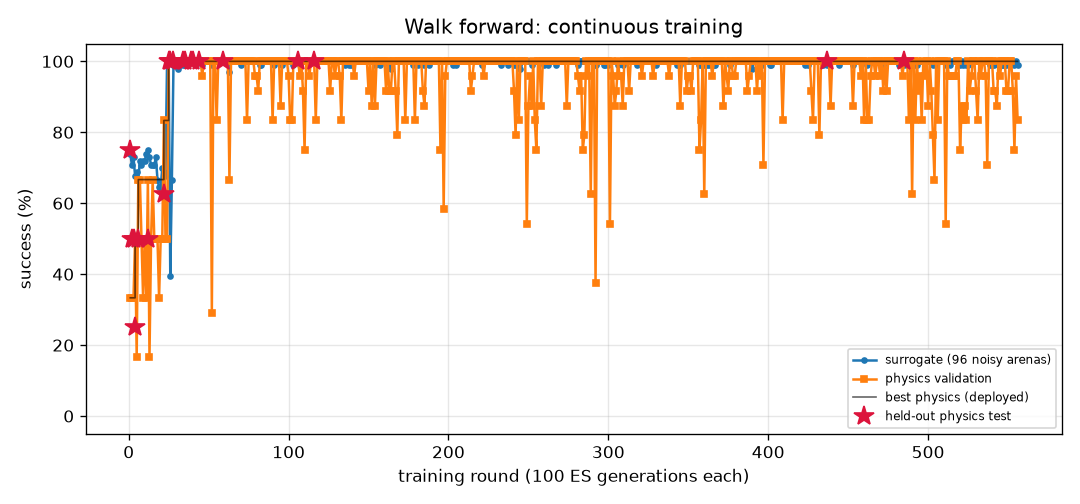
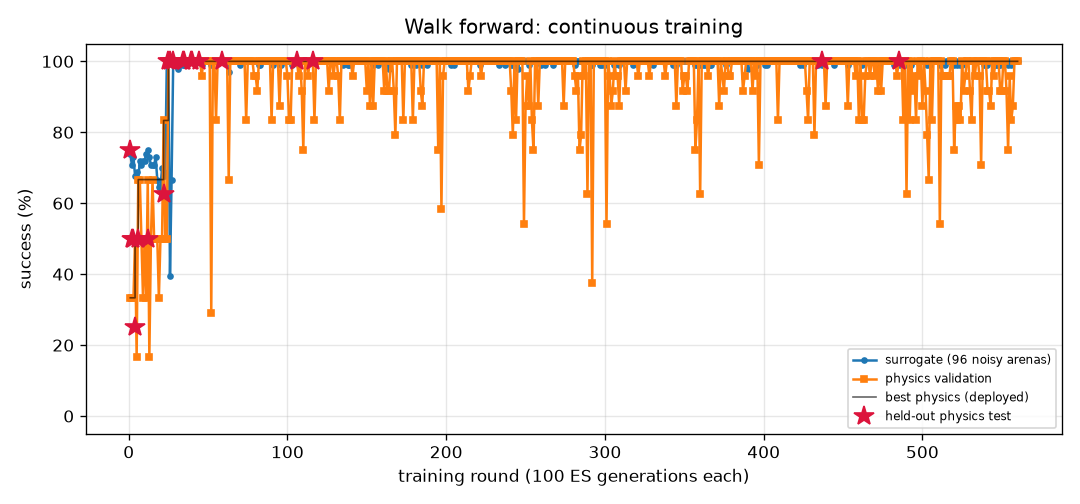
FlyLab: continuous training progress
- walk_forward: optimal, physics val 100% of 24, round 560
- turn: optimal, physics val 100% of 24, round 1392
- goto: optimal, physics val 100% of 24, round 429
- odor_seek: optimal, physics val 100% of 24, round 348
- odor_avoid: optimal, physics val 100% of 24, round 1165
- light_seek: optimal, physics val 100% of 24, round 632
- light_avoid: optimal, physics val 100% of 24, round 877

diff --git a/projects/09_flylab/training/walk_forward/REPORT.md b/projects/09_flylab/training/walk_forward/REPORT.md
@@ -1,14 +1,14 @@
 # Walk forward (`walk_forward`) — training report
 
-*Auto-generated by `train_brains.py`, last updated 2026-11-26T16:41:09.*
+*Auto-generated by `train_brains.py`, last updated 2026-11-26T20:40:53.*
 
 ![curve](curve.png)
 
 | | |
 |---|---|
-| rounds | 556 |
-| ES generations | 55600 |
-| physics runs | 13422 |
+| rounds | 560 |
+| ES generations | 56000 |
+| physics runs | 13518 |
 | status | **optimal** |
 | best brain | round 485: physics validation **100%** on 24 arenas, surrogate 100% |
 | held-out physics test | **100%** on 32 unseen arenas (95% CI 89%-100%) (errors: [0.14, 0.13, 0.15, 0.21, 0.14, 0.12, 0.13, 0.18, 0.2, 0.15, 0.13, 0.14, 0.2, 0.15, 0.12, 0.12, 0.14, 0.14, 0.13, 0.13, 0.14, 0.21, 0.14, 0.13, 0.14, 0.14, 0.18, 0.14, 0.14, 0.14, 0.17, 0.15]) |
@@ -17,10 +17,6 @@ Physics error per arena: mm from target at the end (< 1.5 and standing still = s
 
 | round | level | gens | sigma | surrogate | physics val | val errors | test | note |
 |---:|---:|---:|---:|---:|---:|---|---:|---|
-| 517 | 3 | 51700 | 0.024 | 100% | 96% | [0.25, 0.27, 0.11, 0.25, 0.27, 0.03, 0.28, 0.11, 0.27, 0.19, 0.23, 0.11, 0.11, 0.07, 0.26, 0.14, 0.23, 0.27, 0.18, 0.27, 0.21, 0.18, 0.15, 0.1] |  | restart from best |
-| 518 | 3 | 51800 | 0.024 | 100% | 100% | [0.22, 0.25, 0.17, 0.22, 0.25, 0.16, 0.25, 0.18, 0.25, 0.25, 0.16, 0.22, 0.18, 0.15, 0.24, 0.23, 0.22, 0.26, 0.18, 0.24, 0.2, 0.23, 0.22, 0.18] |  |  |
-| 519 | 3 | 51900 | 0.024 | 100% | 100% | [0.36, 0.34, 0.36, 0.36, 0.34, 0.35, 0.34, 0.35, 0.34, 0.33, 0.35, 0.31, 0.35, 0.35, 0.35, 0.32, 0.36, 0.34, 0.35, 0.35, 0.35, 0.33, 0.31, 0.36] |  |  |
-| 520 | 3 | 52000 | 0.024 | 99% | 75% | [0.1, 0.21, 0.11, 0.1, 0.02, 0.11, 0.04, 0.1, 0.08, 0.06, 0.12, 0.08, 0.83, 0.11, 0.11, 0.08, 0.1, 0.07, 1.09, 0.06, 0.08, 0.09, 0.15, 0.43] |  |  |
 | 521 | 3 | 52100 | 0.025 | 100% | 88% | [0.08, 0.25, 0.5, 0.06, 0.25, 0.02, 0.24, 0.04, 0.25, 0.25, 0.04, 0.11, 0.11, 0.03, 0.2, 0.17, 0.1, 0.24, 0.04, 0.22, 0.08, 0.25, 0.1, 0.34] |  | restart from best |
 | 522 | 3 | 52200 | 0.024 | 99% | 83% | [0.3, 0.37, 0.02, 0.3, 0.37, 0.07, 0.38, 0.24, 0.38, 0.04, 0.15, 0.08, 0.18, 0.03, 0.34, 0.08, 0.06, 0.37, 0.26, 0.37, 0.19, 0.08, 0.08, 0.04] |  |  |
 | 523 | 3 | 52300 | 0.025 | 100% | 88% | [0.09, 0.26, 0.1, 0.06, 0.27, 0.37, 0.27, 0.09, 0.27, 0.25, 0.09, 0.09, 0.1, 0.93, 0.03, 0.09, 0.06, 0.25, 0.1, 0.22, 0.11, 0.23, 0.1, 0.1] |  |  |
@@ -57,3 +53,7 @@ Physics error per arena: mm from target at the end (< 1.5 and standing still = s
 | 554 | 3 | 55400 | 0.024 | 99% | 75% | [0.07, 0.07, 0.19, 0.33, 0.05, 0.16, 0.07, 0.23, 0.09, 0.09, 0.23, 0.08, 0.08, 0.42, 0.28, 0.09, 0.37, 0.06, 0.09, 0.41, 0.07, 0.1, 0.13, 0.03] |  |  |
 | 555 | 3 | 55500 | 0.025 | 100% | 96% | [0.2, 0.25, 0.1, 0.19, 0.25, 0.14, 0.25, 0.18, 0.25, 0.26, 0.06, 0.25, 0.18, 0.09, 0.21, 0.25, 0.2, 0.24, 0.07, 0.22, 0.06, 0.25, 0.24, 0.18] |  |  |
 | 556 | 3 | 55600 | 0.024 | 99% | 83% | [0.05, 0.08, 0.3, 0.06, 0.07, 0.05, 0.1, 0.23, 0.08, 0.1, 0.33, 0.16, 0.39, 0.07, 0.05, 0.23, 0.1, 0.09, 0.06, 0.07, 0.64, 0.14, 0.22, 0.04] |  |  |
+| 557 | 3 | 55700 | 0.025 | 100% | 88% | [0.08, 0.22, 0.07, 0.08, 0.21, 0.08, 0.22, 0.08, 0.21, 0.24, 0.21, 0.25, 0.08, 0.08, 0.17, 0.24, 0.07, 0.2, 0.13, 0.1, 0.1, 0.24, 0.24, 0.18] |  | restart from best |
+| 558 | 3 | 55800 | 0.024 | 100% | 100% | [0.07, 0.09, 0.18, 0.08, 0.08, 0.18, 0.14, 0.18, 0.05, 0.19, 0.19, 0.22, 0.18, 0.19, 0.06, 0.22, 0.08, 0.07, 0.05, 0.05, 0.16, 0.19, 0.24, 0.18] |  |  |
+| 559 | 3 | 55900 | 0.024 | 100% | 100% | [0.25, 0.33, 0.25, 0.26, 0.32, 0.26, 0.33, 0.24, 0.33, 0.35, 0.27, 0.35, 0.25, 0.26, 0.27, 0.35, 0.24, 0.3, 0.24, 0.27, 0.24, 0.36, 0.35, 0.25] |  |  |
+| 560 | 3 | 56000 | 0.024 | 100% | 100% | [0.27, 0.28, 0.21, 0.27, 0.28, 0.2, 0.27, 0.23, 0.27, 0.27, 0.04, 0.26, 0.23, 0.2, 0.27, 0.26, 0.25, 0.29, 0.23, 0.28, 0.25, 0.27, 0.25, 0.23] |  |  |

diff --git a/projects/09_flylab/training/odor_seek/REPORT.md b/projects/09_flylab/training/odor_seek/REPORT.md
@@ -1,14 +1,14 @@
 # Find food by smell (`odor_seek`) — training report
 
-*Auto-generated by `train_brains.py`, last updated 2026-11-26T17:36:54.*
+*Auto-generated by `train_brains.py`, last updated 2026-11-26T20:40:45.*
 
 ![curve](curve.png)
 
 | | |
 |---|---|
-| rounds | 346 |
-| ES generations | 34600 |
-| physics runs | 7798 |
+| rounds | 348 |
+| ES generations | 34800 |
+| physics runs | 7846 |
 | status | **optimal** |
 | best brain | round 240: physics validation **100%** on 24 arenas, surrogate 100% |
 | held-out physics test | **100%** on 32 unseen arenas (95% CI 89%-100%) (errors: [0.02, 0.03, 0.03, 0.05, 0.04, 0.05, 0.06, 0.07, 0.09, 0.05, 0.05, 0.01, 0.12, 0.03, 0.07, 0.08, 0.02, 0.06, 0.03, 0.04, 0.0, 0.01, 0.09, 0.05, 0.04, 0.01, 0.07, 0.05, 0.08, 0.05, 0.05, 0.02]) |
@@ -17,8 +17,6 @@ Physics error per arena: mm from target at the end (< 1.5 and standing still = s
 
 | round | level | gens | sigma | surrogate | physics val | val errors | test | note |
 |---:|---:|---:|---:|---:|---:|---|---:|---|
-| 307 | 3 | 30700 | 0.024 | 100% | 100% | [0.07, 0.2, 0.13, 0.09, 0.05, 0.11, 0.13, 0.07, 0.16, 0.22, 0.05, 0.07, 0.17, 0.05, 0.11, 0.04, 0.17, 0.16, 0.21, 0.06, 0.08, 0.17, 0.05, 0.11] |  |  |
-| 308 | 3 | 30800 | 0.024 | 100% | 100% | [0.07, 0.18, 0.1, 0.14, 0.11, 0.1, 0.1, 0.12, 0.15, 0.14, 0.13, 0.09, 0.21, 0.09, 0.15, 0.08, 0.13, 0.12, 0.12, 0.26, 0.14, 0.15, 0.1, 0.1] |  | restart from best |
 | 309 | 3 | 30900 | 0.024 | 100% | 100% | [0.05, 0.08, 0.03, 0.02, 0.06, 0.04, 0.05, 0.1, 0.08, 0.06, 0.11, 0.19, 0.06, 0.01, 0.04, 0.06, 0.13, 0.12, 0.08, 0.07, 0.02, 0.1, 0.09, 0.04] |  |  |
 | 310 | 3 | 31000 | 0.024 | 100% | 100% | [0.08, 0.12, 0.18, 0.14, 0.16, 0.18, 0.18, 0.14, 0.11, 0.11, 0.17, 0.2, 0.12, 0.12, 0.06, 0.16, 0.09, 0.14, 0.13, 0.11, 0.13, 0.05, 0.14, 0.11] |  |  |
 | 311 | 3 | 31100 | 0.024 | 100% | 100% | [0.17, 0.24, 0.18, 0.13, 0.13, 0.16, 0.17, 0.17, 0.2, 0.14, 0.15, 0.15, 0.16, 0.18, 0.17, 0.1, 0.09, 0.14, 0.16, 0.1, 0.09, 0.12, 0.05, 0.12] |  |  |
@@ -57,3 +55,5 @@ Physics error per arena: mm from target at the end (< 1.5 and standing still = s
 | 344 | 3 | 34400 | 0.024 | 100% | 100% | [0.17, 0.18, 0.19, 0.17, 0.19, 0.17, 0.12, 0.19, 0.19, 0.13, 0.18, 0.19, 0.19, 0.19, 0.12, 0.18, 0.17, 0.21, 0.14, 0.23, 0.2, 0.2, 0.16, 0.14] |  | restart from best |
 | 345 | 3 | 34500 | 0.024 | 100% | 100% | [0.26, 0.16, 0.18, 0.19, 0.18, 0.21, 0.16, 0.22, 0.17, 0.18, 0.15, 0.25, 0.23, 0.19, 0.18, 0.22, 0.27, 0.24, 0.21, 0.2, 0.17, 0.11, 0.15, 0.28] |  |  |
 | 346 | 3 | 34600 | 0.024 | 100% | 100% | [0.13, 0.14, 0.11, 0.2, 0.17, 0.14, 0.2, 0.09, 0.13, 0.11, 0.27, 0.11, 0.18, 0.21, 0.21, 0.17, 0.21, 0.22, 0.18, 0.13, 0.16, 0.2, 0.13, 0.16] |  |  |
+| 347 | 3 | 34700 | 0.024 | 100% | 100% | [0.25, 0.19, 0.19, 0.16, 0.24, 0.24, 0.18, 0.16, 0.2, 0.21, 0.21, 0.15, 0.19, 0.16, 0.19, 0.14, 0.13, 0.18, 0.15, 0.19, 0.25, 0.17, 0.15, 0.17] |  |  |
+| 348 | 3 | 34800 | 0.024 | 100% | 100% | [0.22, 0.17, 0.19, 0.16, 0.23, 0.24, 0.23, 0.22, 0.13, 0.17, 0.2, 0.17, 0.11, 0.15, 0.19, 0.16, 0.21, 0.2, 0.27, 0.22, 0.2, 0.33, 0.12, 0.14] |  | restart from best |

diff --git a/projects/09_flylab/training/light_seek/REPORT.md b/projects/09_flylab/training/light_seek/REPORT.md
@@ -1,14 +1,14 @@
 # Walk toward light (`light_seek`) — training report
 
-*Auto-generated by `train_brains.py`, last updated 2026-11-26T19:38:09.*
+*Auto-generated by `train_brains.py`, last updated 2026-11-26T19:57:26.*
 
 ![curve](curve.png)
 
 | | |
 |---|---|
-| rounds | 631 |
-| ES generations | 63100 |
-| physics runs | 12024 |
+| rounds | 632 |
+| ES generations | 63200 |
+| physics runs | 12048 |
 | status | **optimal** |
 | best brain | round 375: physics validation **100%** on 24 arenas, surrogate 100% |
 | held-out physics test | **100%** on 32 unseen arenas (95% CI 89%-100%) (errors: [0.57, 0.54, 0.53, 0.57, 0.55, 0.56, 0.59, 0.56, 0.53, 0.56, 0.71, 0.56, 0.55, 0.54, 0.53, 0.54, 0.54, 0.55, 0.52, 0.65, 0.64, 0.7, 0.58, 0.57, 0.6, 0.62, 0.55, 0.88, 0.54, 0.52, 0.62, 0.57]) |
@@ -17,7 +17,6 @@ Physics error per arena: mm from target at the end (< 1.5 and standing still = s
 
 | round | level | gens | sigma | surrogate | physics val | val errors | test | note |
 |---:|---:|---:|---:|---:|---:|---|---:|---|
-| 592 | 3 | 59200 | 0.024 | 100% | 100% | [0.53, 0.51, 0.57, 0.52, 0.56, 0.58, 0.54, 0.53, 0.56, 0.59, 0.6, 0.54, 0.63, 0.51, 0.52, 0.51, 0.51, 0.61, 0.5, 0.6, 0.54, 0.57, 0.55, 0.56] |  |  |
 | 593 | 3 | 59300 | 0.024 | 100% | 100% | [0.58, 0.62, 0.69, 0.57, 0.57, 0.51, 0.52, 0.58, 0.6, 0.71, 0.63, 0.52, 0.61, 0.56, 0.6, 0.57, 0.54, 0.54, 0.55, 0.65, 0.56, 0.59, 0.52, 0.56] |  |  |
 | 594 | 3 | 59400 | 0.024 | 100% | 100% | [0.56, 0.5, 0.51, 0.6, 0.52, 0.59, 0.68, 0.74, 0.51, 0.63, 0.52, 0.57, 0.77, 0.53, 0.96, 0.7, 0.53, 0.51, 0.53, 0.52, 0.71, 0.62, 0.51, 0.68] |  |  |
 | 595 | 3 | 59500 | 0.024 | 100% | 100% | [0.45, 0.45, 0.46, 0.49, 0.46, 0.88, 0.5, 0.59, 0.65, 0.45, 0.46, 0.46, 0.45, 0.45, 0.93, 0.45, 0.49, 0.57, 0.48, 0.49, 0.47, 0.46, 0.46, 0.59] |  | restart from best |
@@ -57,3 +56,4 @@ Physics error per arena: mm from target at the end (< 1.5 and standing still = s
 | 629 | 3 | 62900 | 0.024 | 100% | 100% | [0.48, 0.52, 0.59, 0.58, 0.54, 0.94, 0.63, 0.89, 0.92, 0.5, 0.66, 0.53, 0.58, 0.54, 0.92, 0.63, 0.56, 0.5, 0.5, 0.97, 0.95, 0.64, 0.65, 0.67] |  |  |
 | 630 | 3 | 63000 | 0.024 | 100% | 100% | [0.58, 0.58, 0.6, 0.52, 0.5, 0.55, 0.56, 0.52, 1.06, 0.54, 0.49, 0.56, 0.55, 0.55, 0.49, 0.48, 0.57, 0.66, 0.59, 0.55, 0.56, 0.64, 0.54, 0.98] |  |  |
 | 631 | 3 | 63100 | 0.024 | 100% | 100% | [0.6, 0.56, 0.51, 0.44, 0.58, 0.52, 0.51, 0.44, 0.5, 0.49, 0.45, 0.54, 0.5, 0.59, 0.61, 0.45, 0.55, 0.61, 0.55, 0.62, 0.52, 0.41, 0.52, 0.63] |  | restart from best |
+| 632 | 3 | 63200 | 0.024 | 100% | 100% | [0.55, 0.45, 0.46, 0.44, 0.47, 0.56, 0.47, 0.55, 0.44, 0.49, 0.54, 0.47, 0.5, 0.51, 0.45, 0.46, 0.57, 0.44, 0.43, 0.56, 0.47, 1.03, 0.48, 0.44] |  |  |

diff --git a/projects/09_flylab/training/TRAINING.md b/projects/09_flylab/training/TRAINING.md
@@ -1,15 +1,15 @@
 # FlyLab brains — continuous training log
 
-*Auto-generated by `train_brains.py`, last updated 2026-11-26T19:47:16.*
+*Auto-generated by `train_brains.py`, last updated 2026-11-26T20:40:53.*
 
 Every skill has its own brain and its own training process: surrogate ES rounds, physics validation in MuJoCo, keep-the-best selection, and a held-out physics test that is never used for selection. See each skill's report for its full round-by-round history. Mastery is progressive: passing a level (100% physics validation, >=95% surrogate) doubles the validation and test arena sets; a brain is **optimal** once it holds up at level 3 (>=95% of 24 validation arenas) AND scores >=90% on the 32 held-out test arenas. Test columns show 95% Wilson confidence intervals.
 
 | skill | rounds | ES generations | physics runs | surrogate | physics val | **physics test** | status |
 |---|---:|---:|---:|---:|---:|---:|---|
-| [Walk forward](walk_forward/REPORT.md) | 556 | 55600 | 13422 | 100% | 100% of 24 | 100% of 32 (CI 89-100%) | **optimal** |
+| [Walk forward](walk_forward/REPORT.md) | 560 | 56000 | 13518 | 100% | 100% of 24 | 100% of 32 (CI 89-100%) | **optimal** |
 | [Turn in place](turn/REPORT.md) | 1392 | 139200 | 33654 | 100% | 100% of 24 | 97% of 32 (CI 84-99%) | **optimal** |
 | [Go to a location](goto/REPORT.md) | 429 | 42900 | 10246 | 100% | 100% of 24 | 100% of 32 (CI 89-100%) | **optimal** |
-| [Find food by smell](odor_seek/REPORT.md) | 346 | 34600 | 7798 | 100% | 100% of 24 | 100% of 32 (CI 89-100%) | **optimal** |
+| [Find food by smell](odor_seek/REPORT.md) | 348 | 34800 | 7846 | 100% | 100% of 24 | 100% of 32 (CI 89-100%) | **optimal** |
 | [Escape a bad smell](odor_avoid/REPORT.md) | 1165 | 116500 | 25266 | 97% | 100% of 24 | 97% of 32 (CI 84-99%) | **optimal** |
-| [Walk toward light](light_seek/REPORT.md) | 631 | 63100 | 12024 | 100% | 100% of 24 | 100% of 32 (CI 89-100%) | **optimal** |
+| [Walk toward light](light_seek/REPORT.md) | 632 | 63200 | 12048 | 100% | 100% of 24 | 100% of 32 (CI 89-100%) | **optimal** |
 | [Hide from light](light_avoid/REPORT.md) | 877 | 87700 | 21320 | 100% | 100% of 24 | 100% of 32 (CI 89-100%) | **optimal** |
